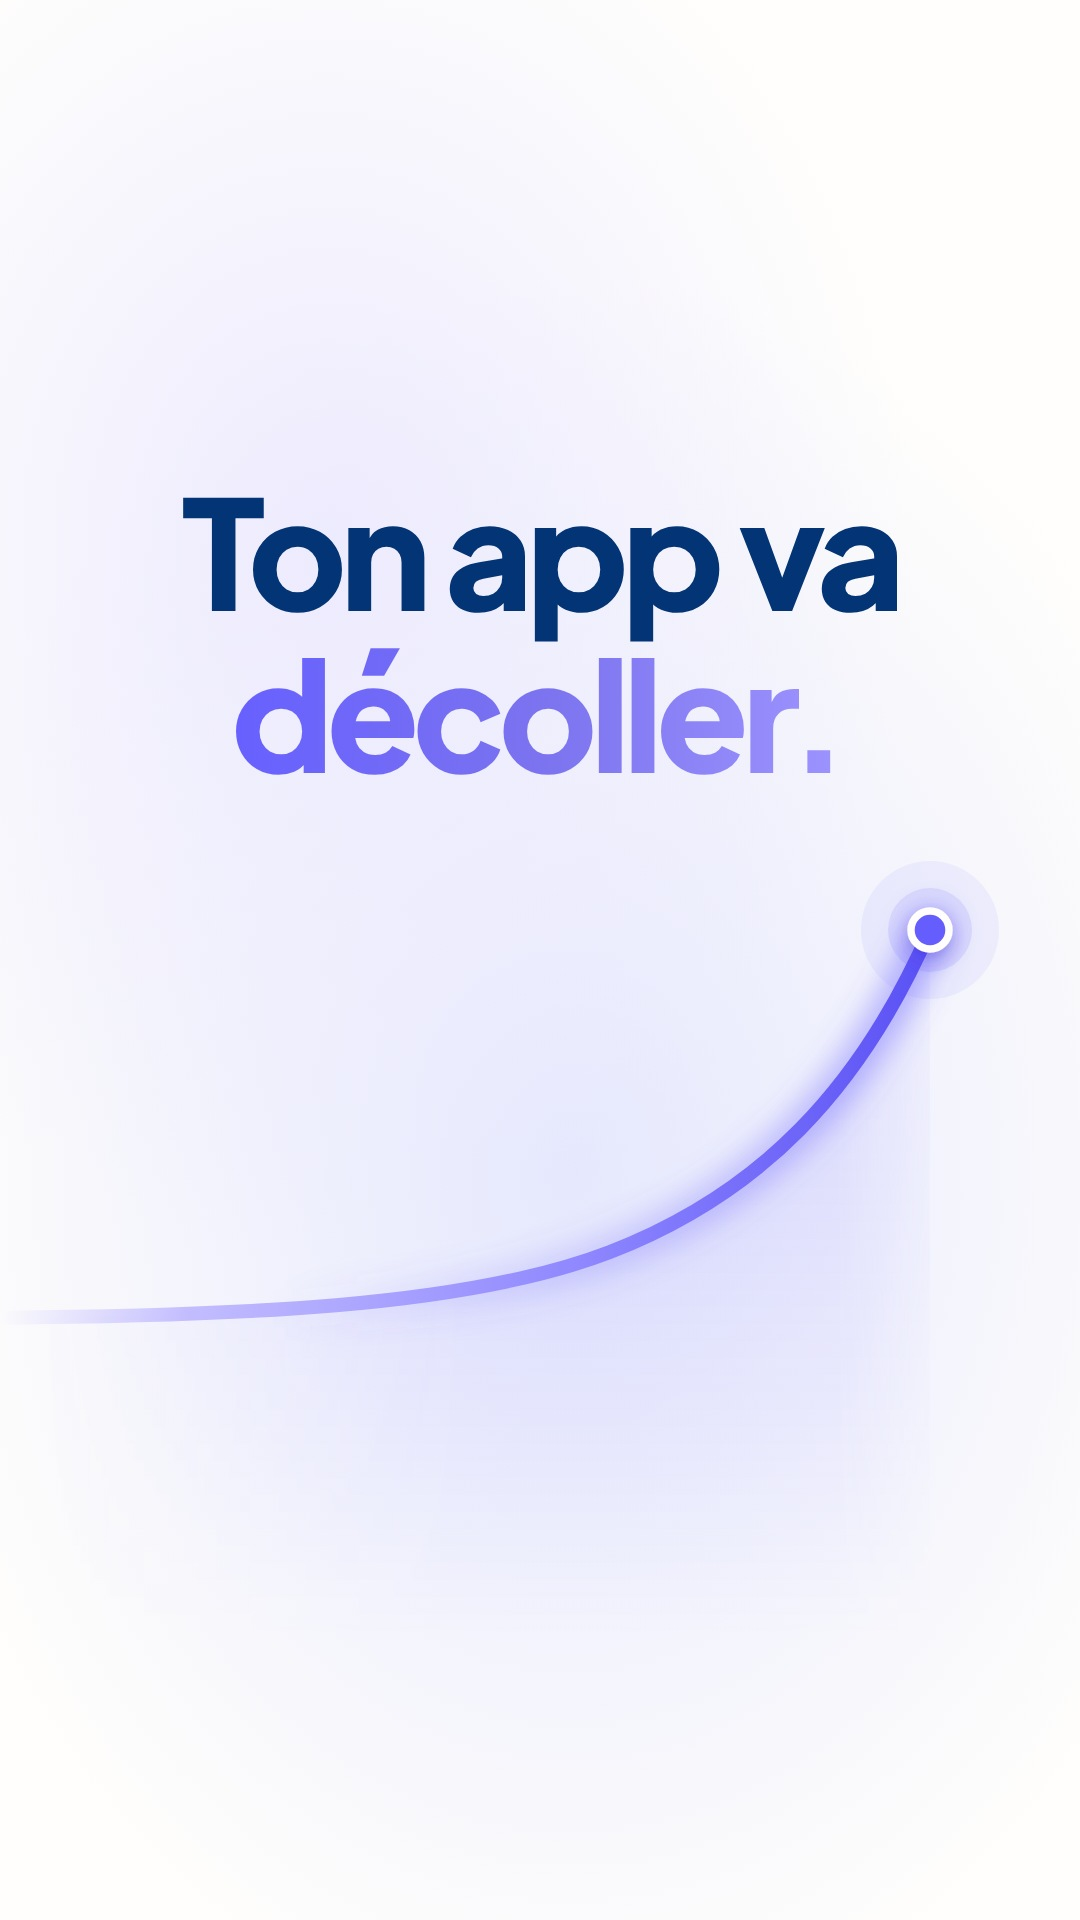
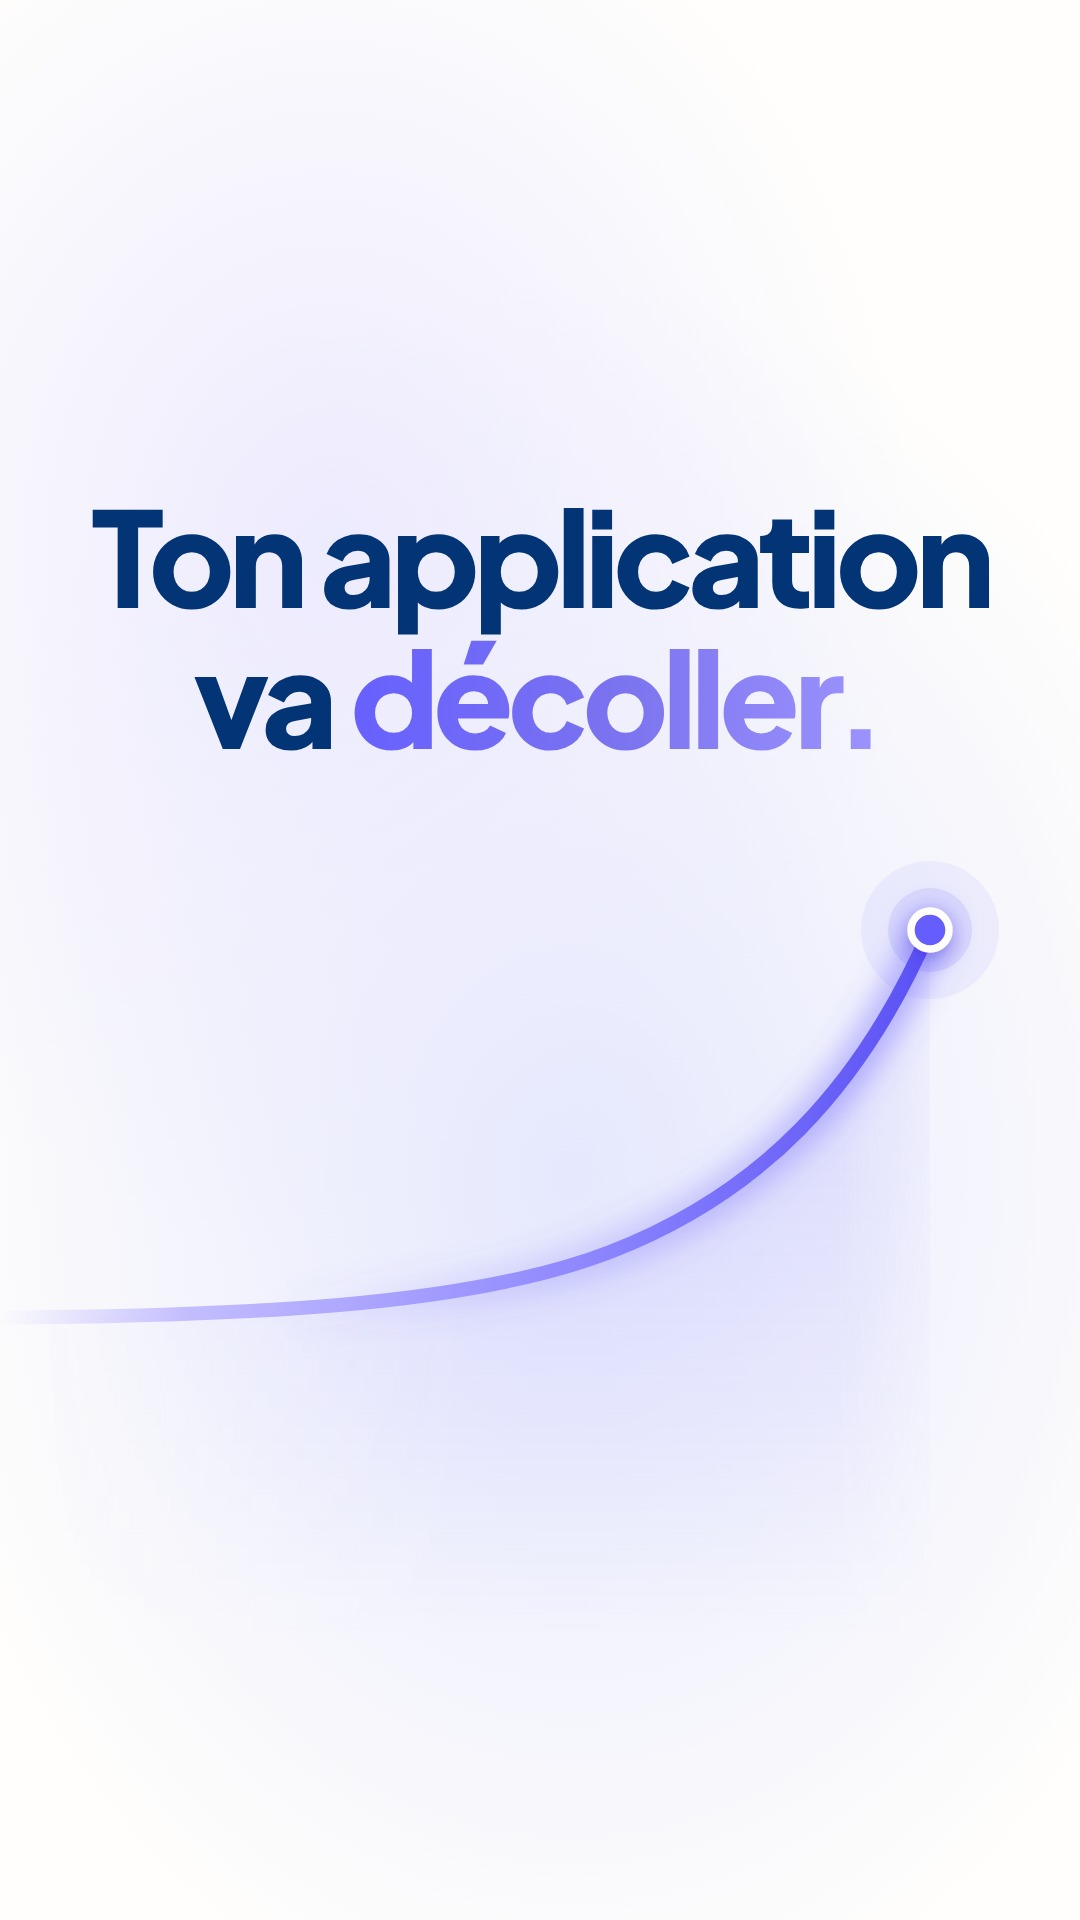
Maquettes : mobile ou ordinateur selon le support ; couverture du reel : « Ton application va décoller. »
Deux phrases de consigne (AGENTS.md, documentation/architecture/landing-page.md) : la page de maquette montre des frames mobile ou ordinateur selon le support du projet (application mobile, application web ou les deux). Couverture du reel alignée sur la miniature du site (« application » au lieu de « app », police 132 px, deux lignes).

Changed region(s): [[0.0917, 0.25, 0.9167, 0.4062]]

diff --git a/AGENTS.md b/AGENTS.md
@@ -78,7 +78,7 @@ Quand Noe demande de creer une maquette pour un nouveau projet, utiliser la page
 
 - Route publique de reference : `https://noecalmes.fr/maquette/aretha/`
 - Code local de reference : `src/ArethaMockups.jsx` et `src/aretha-mockups.css`
-- Structure attendue : page autonome sans navbar/footer landing, hero simple, galerie de maquettes, cartes de presentation, frames mobile propres, rendu premium et coherent.
+- Structure attendue : page autonome sans navbar/footer landing, hero simple, galerie de maquettes, cartes de presentation, frames mobile ou ordinateur propres selon le support (application mobile, application web ou les deux), rendu premium et coherent.
 - Pour un nouveau projet, reprendre la structure et le niveau de finition, mais jamais le contenu, les fonctionnalites, les couleurs ou la marque Aretha si le projet est different.
 - Les maquettes HTML vivent dans `landing-page` sur une route `/maquette/{slug}`. Le devis et le cahier des charges restent geres cote Nowork.
 

diff --git a/documentation/architecture/landing-page.md b/documentation/architecture/landing-page.md
@@ -455,7 +455,7 @@ Quand une nouvelle maquette client doit etre creee, prendre Aretha comme referen
 
 - Reference publique : `https://noecalmes.fr/maquette/aretha/`
 - Fichiers locaux : `src/ArethaMockups.jsx` et `src/aretha-mockups.css`
-- Attendu : page autonome, hero sobre, galerie de cartes, frames mobile propres, titre et sous-titre pour chaque ecran, finition visuelle coherente.
+- Attendu : page autonome, hero sobre, galerie de cartes, frames mobile ou ordinateur propres selon le support (application mobile, application web ou les deux), titre et sous-titre pour chaque ecran, finition visuelle coherente.
 - Adapter a chaque projet : parcours, ecrans, style, couleurs, illustrations, textes et niveau de detail doivent rester propres au client.
 - Si le client demande un lien dans le devis, coller l'URL `/maquette/{slug}` generee dans ce dossier, pas une galerie `/maquette-visuel/...` sauf si les images viennent de Nowork.
 
